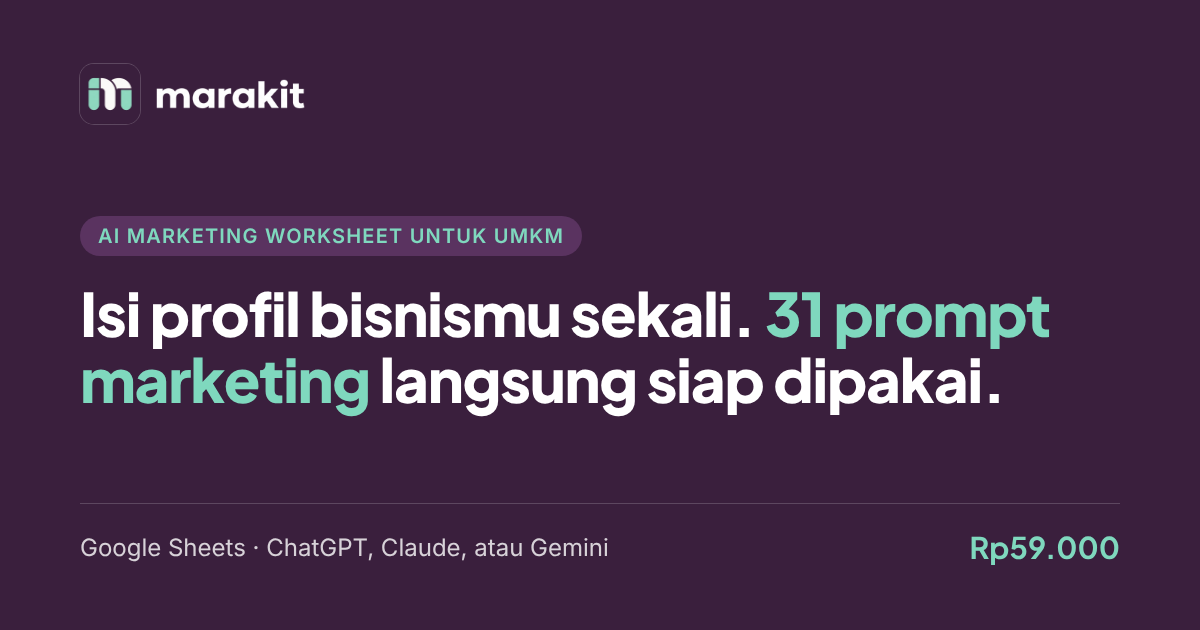
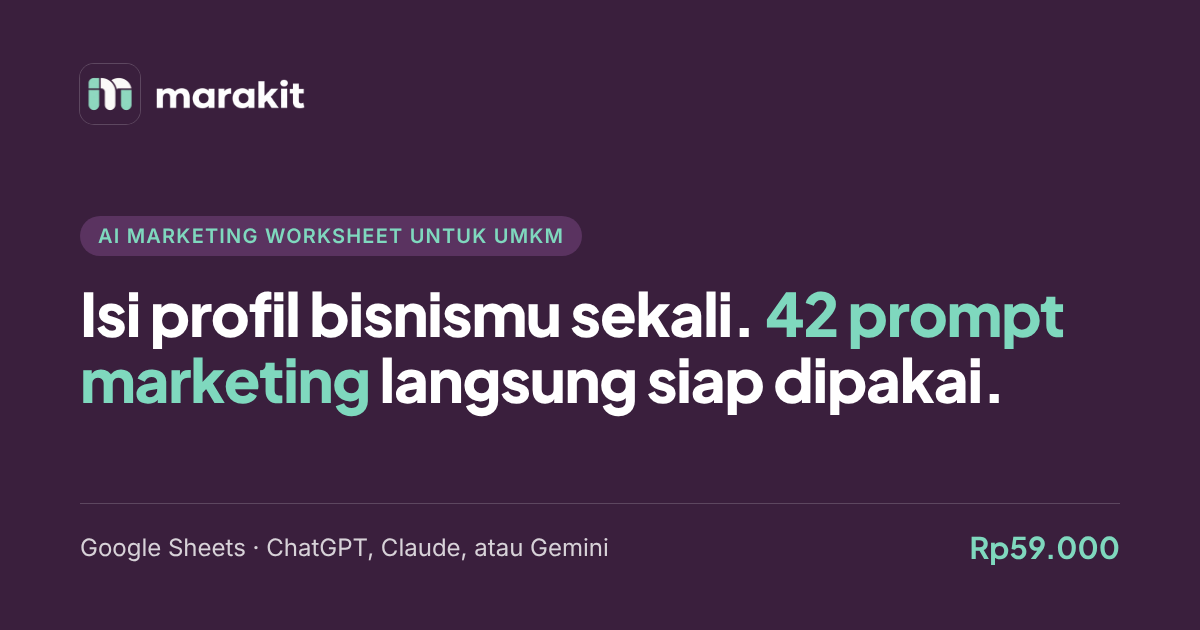
Use 42 prompts in the headline and remove the creator section
- Headline, meta description, schema and OG image say 42 prompts
  (31 Prompt Otomatis + 11 Prompt Pro); tab-level counts stay as is
- Remove the Tentang Pembuat section; its HTML and CSS are kept in
  archive/product/tentang-pembuat.html
- Rebalance section backgrounds (FAQ light, Segera Hadir white)

Claude-Session: https://claude.ai/code/session_01RbstPbwoKJ2Wjz1DWccceZ

Changed region(s): [[0.6167, 0.4524, 0.8942, 0.573]]

diff --git a/index.html b/index.html
@@ -4,7 +4,7 @@
   <meta charset="utf-8">
   <meta name="viewport" content="width=device-width, initial-scale=1">
   <title>AI Marketing Worksheet untuk UMKM | Marakit</title>
-  <meta name="description" content="31 prompt marketing yang terisi otomatis dari profil bisnismu. Untuk UMKM yang ingin memakai ChatGPT, Claude, atau Gemini tanpa ribet.">
+  <meta name="description" content="42 prompt marketing yang terisi otomatis dari profil bisnismu. Untuk UMKM yang ingin memakai ChatGPT, Claude, atau Gemini tanpa ribet.">
   <link rel="canonical" href="https://marakit.com/">
   <meta name="theme-color" content="#3A1F3D">
   <script>document.documentElement.classList.add("js")</script>
@@ -17,7 +17,7 @@
   <meta property="og:site_name" content="Marakit">
   <meta property="og:url" content="https://marakit.com/">
   <meta property="og:title" content="AI Marketing Worksheet untuk UMKM | Marakit">
-  <meta property="og:description" content="31 prompt marketing yang terisi otomatis dari profil bisnismu. Untuk UMKM yang ingin memakai ChatGPT, Claude, atau Gemini tanpa ribet.">
+  <meta property="og:description" content="42 prompt marketing yang terisi otomatis dari profil bisnismu. Untuk UMKM yang ingin memakai ChatGPT, Claude, atau Gemini tanpa ribet.">
   <meta property="og:image" content="https://marakit.com/assets/og-worksheet.png">
   <meta property="og:image:width" content="1200">
   <meta property="og:image:height" content="630">
@@ -33,7 +33,7 @@
     "@context": "https://schema.org",
     "@type": "Product",
     "name": "AI Marketing Worksheet untuk UMKM",
-    "description": "Worksheet Google Sheets berisi 31 prompt marketing yang terisi otomatis dari profil bisnismu, untuk dipakai di ChatGPT, Claude, atau Gemini.",
+    "description": "Worksheet Google Sheets berisi 42 prompt marketing yang terisi otomatis dari profil bisnismu, untuk dipakai di ChatGPT, Claude, atau Gemini.",
     "image": "https://marakit.com/assets/og-worksheet.png",
     "brand": { "@type": "Brand", "name": "Marakit" },
     "offers": [
@@ -110,7 +110,7 @@
       <div class="container hero__grid">
         <div class="hero__copy">
           <span class="badge">Untuk UMKM yang baru mulai pakai AI</span>
-          <h1>Isi profil bisnismu sekali. 31 prompt marketing langsung siap dipakai.</h1>
+          <h1>Isi profil bisnismu sekali. 42 prompt marketing langsung siap dipakai.</h1>
           <p class="lead">Worksheet Google Sheets yang mengubah ChatGPT, Claude, atau Gemini jadi asisten marketing usahamu. Lengkap dengan jalur sesuai kondisi usaha, kalender konten, dan tracker iklan.</p>
           <div class="hero__actions">
             <a class="btn btn--primary" href="https://wa.me/6281220694447" data-buy data-loc="hero" target="_blank" rel="noopener">Beli sekarang, Rp59.000</a>
@@ -401,26 +401,6 @@
       </div>
     </section>
 
-    <!-- 10. Tentang Pembuat -->
-    <!-- GANTI: taruh foto di assets/ridzal.jpg (potret 4:5). Selama file belum ada, placeholder yang tampil. -->
-    <section class="section section--bone" id="tentang">
-      <div class="container about">
-        <div class="about__photo">
-          <img src="assets/ridzal.jpg" alt="Ridzal, pembuat AI Marketing Worksheet" width="720" height="900" loading="lazy" onerror="this.remove()">
-          <span class="about__placeholder" aria-hidden="true">FOTO RIDZAL</span>
-        </div>
-        <div class="about__copy">
-          <h2>Dibuat oleh praktisi, bukan teori.</h2>
-          <p>Dibuat oleh Ridzal, social media strategist di Bandung dengan pengalaman 3 tahun menangani konten dan Meta Ads. Pernah membawa iklan sampai 7x ROAS dan konten TikTok sampai 700 ribu views.</p>
-          <p>Worksheet ini adalah cara kerja yang saya pakai, disederhanakan supaya bisa dijalankan pemilik usaha sendiri.</p>
-          <div class="about__links">
-            <a class="btn btn--secondary btn--sm" href="#" data-social="creatorInstagram" target="_blank" rel="noopener">Instagram</a>
-            <a class="btn btn--secondary btn--sm" href="#" data-social="creatorTiktok" target="_blank" rel="noopener">TikTok</a>
-          </div>
-        </div>
-      </div>
-    </section>
-
     <!-- 11. Testimoni: disembunyikan sampai ada testimoni asli (CONFIG.showTestimonials di js/main.js). -->
     <section class="section section--white" id="testimoni" hidden>
       <div class="container">
@@ -438,7 +418,7 @@
     </section>
 
     <!-- 12. FAQ -->
-    <section class="section section--white" id="faq">
+    <section class="section section--bone" id="faq">
       <div class="container container--narrow">
         <header class="section__head">
           <h2>Pertanyaan yang sering muncul.</h2>
@@ -479,7 +459,7 @@
     </section>
 
     <!-- 13. Segera Hadir -->
-    <section class="section section--bone" id="segera-hadir">
+    <section class="section section--white" id="segera-hadir">
       <div class="container">
         <header class="section__head">
           <h2>Yang sedang kami rakit</h2>

diff --git a/archive/product/tentang-pembuat.html b/archive/product/tentang-pembuat.html
@@ -1,0 +1,39 @@
+<!-- ARSIP: section "Tentang Pembuat" dari landing page AI Marketing Worksheet.
+     Dihapus dari halaman utama atas permintaan. Untuk memakai lagi:
+     1. Tempel blok <section> di bawah ke index.html, sebelum section Testimoni.
+     2. Tempel CSS di bagian paling bawah file ini ke css/styles.css.
+     3. Link Instagram/TikTok memakai data-social="creatorInstagram" dan "creatorTiktok":
+        tambahkan kedua kunci itu ke CONFIG.social di js/main.js.
+     4. Taruh foto di assets/ridzal.jpg (potret 4:5). -->
+
+    <!-- 10. Tentang Pembuat -->
+    <!-- GANTI: taruh foto di assets/ridzal.jpg (potret 4:5). Selama file belum ada, placeholder yang tampil. -->
+    <section class="section section--bone" id="tentang">
+      <div class="container about">
+        <div class="about__photo">
+          <img src="assets/ridzal.jpg" alt="Ridzal, pembuat AI Marketing Worksheet" width="720" height="900" loading="lazy" onerror="this.remove()">
+          <span class="about__placeholder" aria-hidden="true">FOTO RIDZAL</span>
+        </div>
+        <div class="about__copy">
+          <h2>Dibuat oleh praktisi, bukan teori.</h2>
+          <p>Dibuat oleh Ridzal, social media strategist di Bandung dengan pengalaman 3 tahun menangani konten dan Meta Ads. Pernah membawa iklan sampai 7x ROAS dan konten TikTok sampai 700 ribu views.</p>
+          <p>Worksheet ini adalah cara kerja yang saya pakai, disederhanakan supaya bisa dijalankan pemilik usaha sendiri.</p>
+          <div class="about__links">
+            <a class="btn btn--secondary btn--sm" href="#" data-social="creatorInstagram" target="_blank" rel="noopener">Instagram</a>
+            <a class="btn btn--secondary btn--sm" href="#" data-social="creatorTiktok" target="_blank" rel="noopener">TikTok</a>
+          </div>
+        </div>
+      </div>
+    </section>
+
+
+<style>
+/* ---------- 10. Tentang Pembuat ---------- */
+.about { display: grid; gap: 40px; align-items: center; }
+.about__photo { position: relative; aspect-ratio: 4 / 5; max-width: 320px; width: 100%; border-radius: var(--radius-card); background: var(--lilac); display: flex; align-items: center; justify-content: center; overflow: hidden; }
+.about__photo img { position: absolute; inset: 0; z-index: 1; width: 100%; height: 100%; object-fit: cover; }
+.about__copy p { color: var(--body); }
+.about__links { display: flex; flex-wrap: wrap; gap: 12px; margin-top: 24px; }
+@media (min-width: 768px) { .about { grid-template-columns: 300px 1fr; gap: 64px; } }
+
+</style>

diff --git a/css/styles.css b/css/styles.css
@@ -191,7 +191,7 @@ h3 { font-weight: 600; font-size: 19px; line-height: 1.3; margin: 0 0 8px; }
 /* Placeholder: grid ala spreadsheet, tampil selama screenshot belum ada */
 .device__placeholder { position: absolute; inset: 0; display: flex; align-items: center; justify-content: center; background-color: var(--white);
   background-image: repeating-linear-gradient(0deg, var(--line) 0 1px, transparent 1px 28px), repeating-linear-gradient(90deg, var(--line) 0 1px, transparent 1px 96px); }
-.device__placeholder span, .modal__placeholder span, .about__placeholder { display: inline-block; padding: 8px 14px; border: 1px dashed var(--plum-soft); border-radius: 8px; background: var(--lilac); color: var(--plum); font: 700 13px/1.3 var(--head); letter-spacing: 0.1em; text-align: center; }
+.device__placeholder span, .modal__placeholder span { display: inline-block; padding: 8px 14px; border: 1px dashed var(--plum-soft); border-radius: 8px; background: var(--lilac); color: var(--plum); font: 700 13px/1.3 var(--head); letter-spacing: 0.1em; text-align: center; }
 
 /* ---------- 4. Masalah ---------- */
 .problem__num { display: block; font-family: var(--head); font-weight: 800; font-size: 15px; color: var(--mint-deep); margin-bottom: 12px; }
@@ -284,14 +284,6 @@ h3 { font-weight: 600; font-size: 19px; line-height: 1.3; margin: 0 0 8px; }
   .price-card__price .mono { font-size: 48px; }
 }
 .price-note { margin: 24px 0 0; font-size: 14px; color: var(--body); }
-
-/* ---------- 10. Tentang Pembuat ---------- */
-.about { display: grid; gap: 40px; align-items: center; }
-.about__photo { position: relative; aspect-ratio: 4 / 5; max-width: 320px; width: 100%; border-radius: var(--radius-card); background: var(--lilac); display: flex; align-items: center; justify-content: center; overflow: hidden; }
-.about__photo img { position: absolute; inset: 0; z-index: 1; width: 100%; height: 100%; object-fit: cover; }
-.about__copy p { color: var(--body); }
-.about__links { display: flex; flex-wrap: wrap; gap: 12px; margin-top: 24px; }
-@media (min-width: 768px) { .about { grid-template-columns: 300px 1fr; gap: 64px; } }
 
 /* ---------- 11. Testimoni (disembunyikan sampai ada yang asli) ---------- */
 .testimonial { margin: 0; display: flex; flex-direction: column; gap: 20px; }

diff --git a/js/main.js b/js/main.js
@@ -9,9 +9,7 @@
     demoUrl: "", // GANTI: link video demo (YouTube, Google Drive, atau file .mp4). Selama kosong, modal menampilkan placeholder.
     social: {
       instagram: "",        // GANTI: Instagram Marakit (footer). Link disembunyikan selama kosong.
-      tiktok: "",           // GANTI: TikTok Marakit (footer).
-      creatorInstagram: "", // GANTI: Instagram Ridzal (section Tentang Pembuat).
-      creatorTiktok: ""     // GANTI: TikTok Ridzal.
+      tiktok: ""            // GANTI: TikTok Marakit (footer).
     },
     // Testimoni: tampil hanya kalau showTestimonials true DAN ada isinya. Hanya testimoni asli.
     // Contoh format: { quote: "...", name: "...", business: "..." }
@@ -142,9 +140,6 @@
     if (url) { el.setAttribute("href", url); return; }
     var item = el.closest("li") || el;
     item.hidden = true;
-  });
-  document.querySelectorAll(".about__links").forEach(function (box) {
-    if (!box.querySelector("a[data-social]:not([hidden])")) box.hidden = true;
   });
 
   /* ---------- Modal demo ---------- */

diff --git a/js/fx.js b/js/fx.js
@@ -3,7 +3,7 @@
   "use strict";
 
   var reduceMotion = window.matchMedia("(prefers-reduced-motion: reduce)").matches;
-  var REVEAL = [".section__head", ".card", ".howto__text", ".howto__shot", ".tabview", ".prompt-compare__punch", ".price-note", ".faq", ".about__photo", ".about__copy", ".closing-cta"].join(",");
+  var REVEAL = [".section__head", ".card", ".howto__text", ".howto__shot", ".tabview", ".prompt-compare__punch", ".price-note", ".faq", ".closing-cta"].join(",");
 
   var targets = Array.prototype.slice.call(document.querySelectorAll("main " + REVEAL.split(",").join(", main ")));
   if (reduceMotion || !("IntersectionObserver" in window)) return;

diff --git a/tools/og-worksheet.html b/tools/og-worksheet.html
@@ -15,6 +15,6 @@
 </style></head>
 <body>
   <div class="brand"><img class="m" src="../assets/brand/logo-mark.png" alt=""><img class="w" src="../assets/brand/wordmark-white.png" alt="marakit"></div>
-  <div><span class="badge">AI Marketing Worksheet untuk UMKM</span><h1>Isi profil bisnismu sekali. <span>31 prompt marketing</span> langsung siap dipakai.</h1></div>
+  <div><span class="badge">AI Marketing Worksheet untuk UMKM</span><h1>Isi profil bisnismu sekali. <span>42 prompt marketing</span> langsung siap dipakai.</h1></div>
   <div class="foot"><span>Google Sheets · ChatGPT, Claude, atau Gemini</span><b>Rp59.000</b></div>
 </body></html>

diff --git a/README.md b/README.md
@@ -5,7 +5,7 @@ Landing page untuk satu produk: **AI Marketing Worksheet untuk UMKM**, satu vers
 Plain HTML, CSS, dan JS tanpa build step. Bisa di-deploy ke Vercel, Netlify, Cloudflare Pages, atau hosting statis mana pun.
 
 ```
-index.html          landing page produk (15 section, urutan sesuai brief)
+index.html          landing page produk
 css/styles.css      design token dan komponen
 js/main.js          CONFIG, link Lynk.id + UTM, demo modal, daftar tunggu, menu mobile, sticky bar, tracking
 js/fx.js            fade-in halus saat scroll (mati kalau "kurangi gerakan" aktif)
@@ -26,12 +26,10 @@ Semua di `js/main.js`, objek `CONFIG`:
 | `lynkUrl` | Halaman checkout Lynk.id (sudah diisi: `lynk.id/upridzal/17vdrmmmrpx4/checkout`) | Kalau dikosongkan, tombol beli membuka WhatsApp dengan pesan "mau beli AI Marketing Worksheet" |
 | `demoUrl` | Video demo 60 detik (YouTube, Google Drive, .mp4, atau gambar) | Modal demo menampilkan placeholder "VIDEO DEMO 60 DETIK" |
 | `social.instagram`, `social.tiktok` | Akun Marakit (footer) | Link disembunyikan |
-| `social.creatorInstagram`, `social.creatorTiktok` | Akun Ridzal (Tentang Pembuat) | Link disembunyikan |
 | `ga4Id`, `metaPixelId`, `clarityId` | ID tracking | Script tidak dimuat |
 
 Gambar:
 - `assets/steps/`: screenshot tab worksheet (WebP, lebar 1400px). Profil Bisnis, Jalur Kamu, dan Checklist Persiapan dipakai di section Cara Kerja (Jalur Kamu juga di frame laptop hero). Prompt Otomatis, Kalender Konten, Tracker Iklan, dan Tracker WhatsApp dipakai di preview bertab di section Isi Produk. Ganti file dengan nama yang sama untuk memperbarui. Semua screenshot bisa diketuk untuk dibuka ukuran penuh.
-- `assets/ridzal.jpg`: foto pembuat, potret 4:5. Belum ada; selama kosong, placeholder yang tampil.
 
 Konten yang ditandai `GANTI` di `index.html`:
 - FAQ "Bisa refund?" masih disembunyikan (`hidden`) sampai kebijakan refund ditulis. Tambahkan juga ke FAQPage JSON-LD di `<head>`.
@@ -61,7 +59,8 @@ UTM dari URL halaman (misalnya `?utm_source=tiktok`) disimpan per sesi, dikirim 
 - Tanpa gradien, glow, partikel, atau ilustrasi robot dan otak. Animasi hanya fade-in saat scroll.
 - Mobile first. Sticky bar "Beli Rp59.000" muncul di mobile setelah melewati hero.
 - Bahasa Indonesia, panggil pembaca "kamu", tanpa em dash, harga ditulis lengkap (Rp59.000).
-- Jangan membuat klaim hasil produk. Angka 7x ROAS dan 700 ribu views hanya di section Tentang Pembuat, sebagai pengalaman pembuatnya.
+- Jangan membuat klaim hasil produk.
+- Section Tentang Pembuat sudah dihapus dari halaman. HTML dan CSS-nya disimpan di `archive/product/tentang-pembuat.html`.
 
 ## OG image
 `assets/og-worksheet.png` dibuat dari `tools/og-worksheet.html`. Edit templatenya lalu jalankan `node tools/render-og.mjs` (butuh Playwright).
